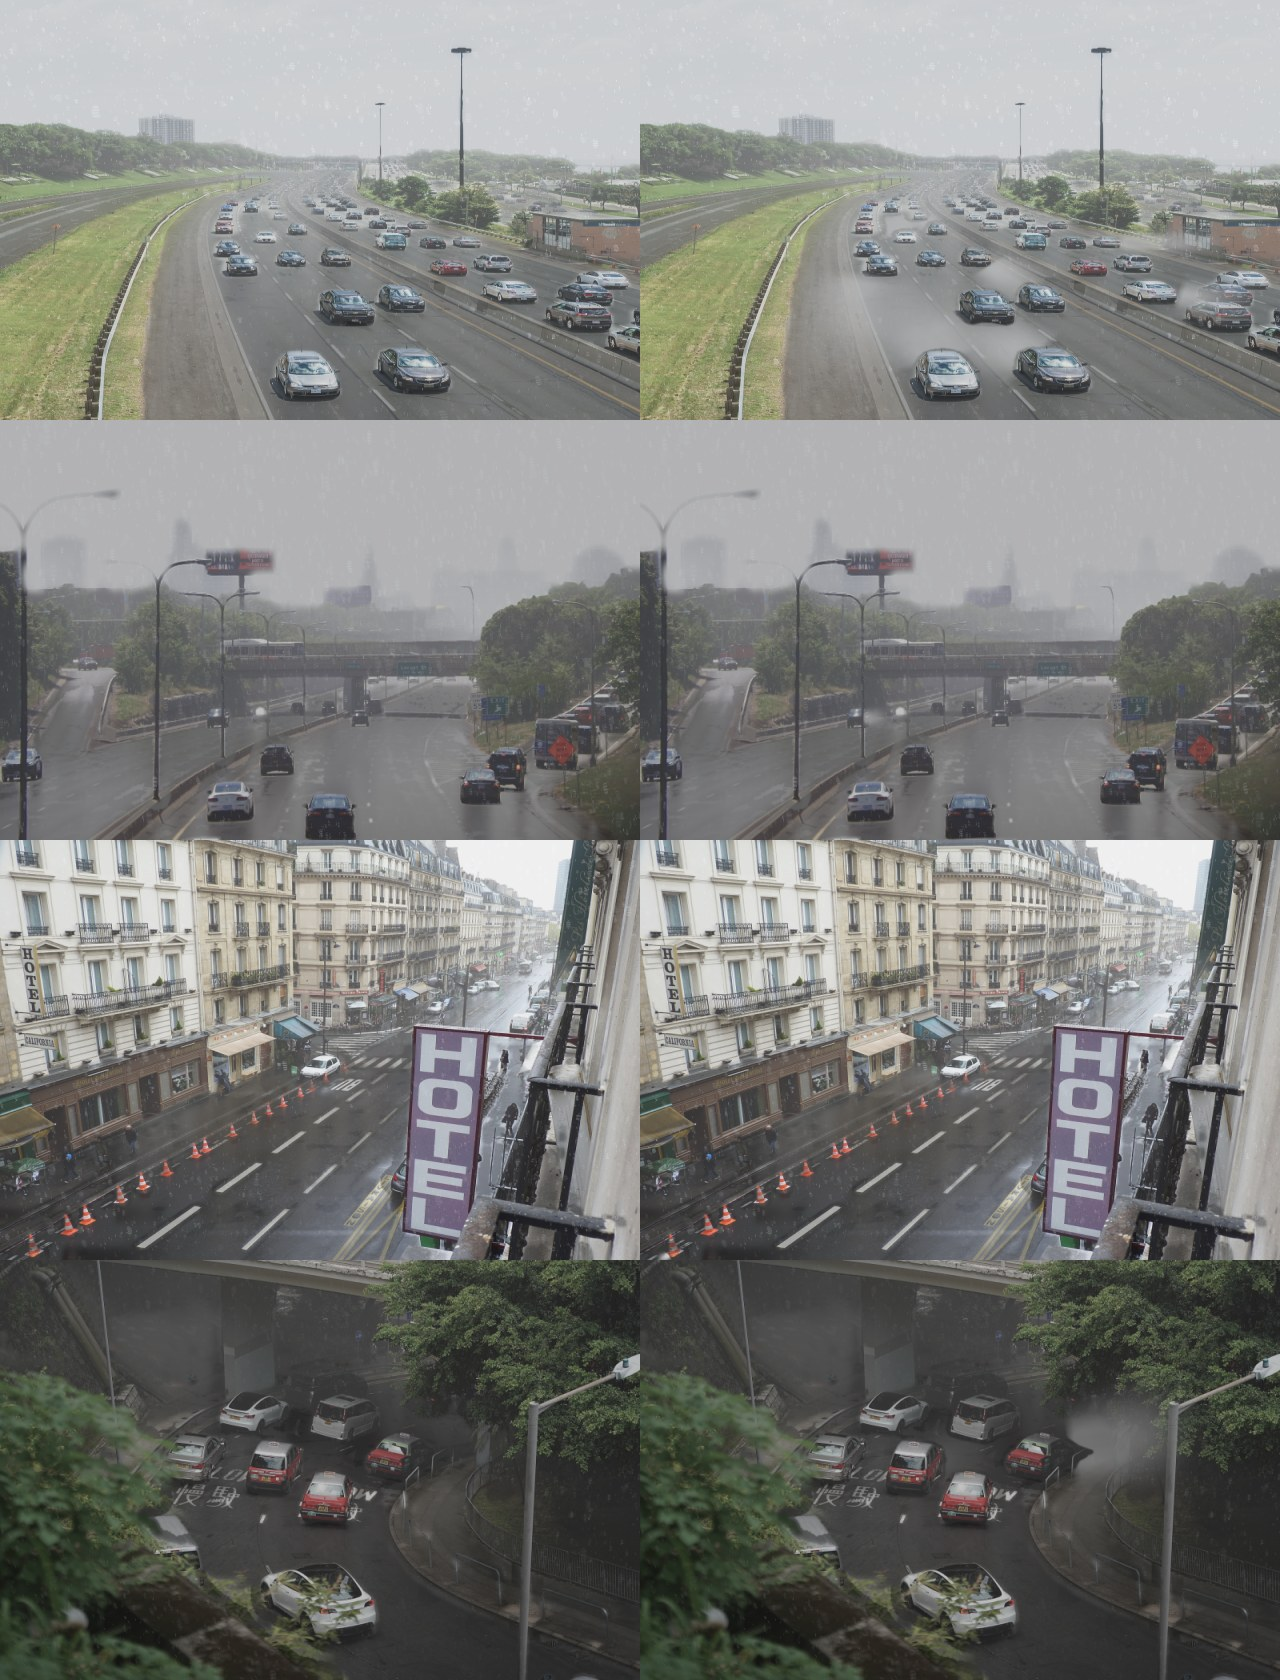
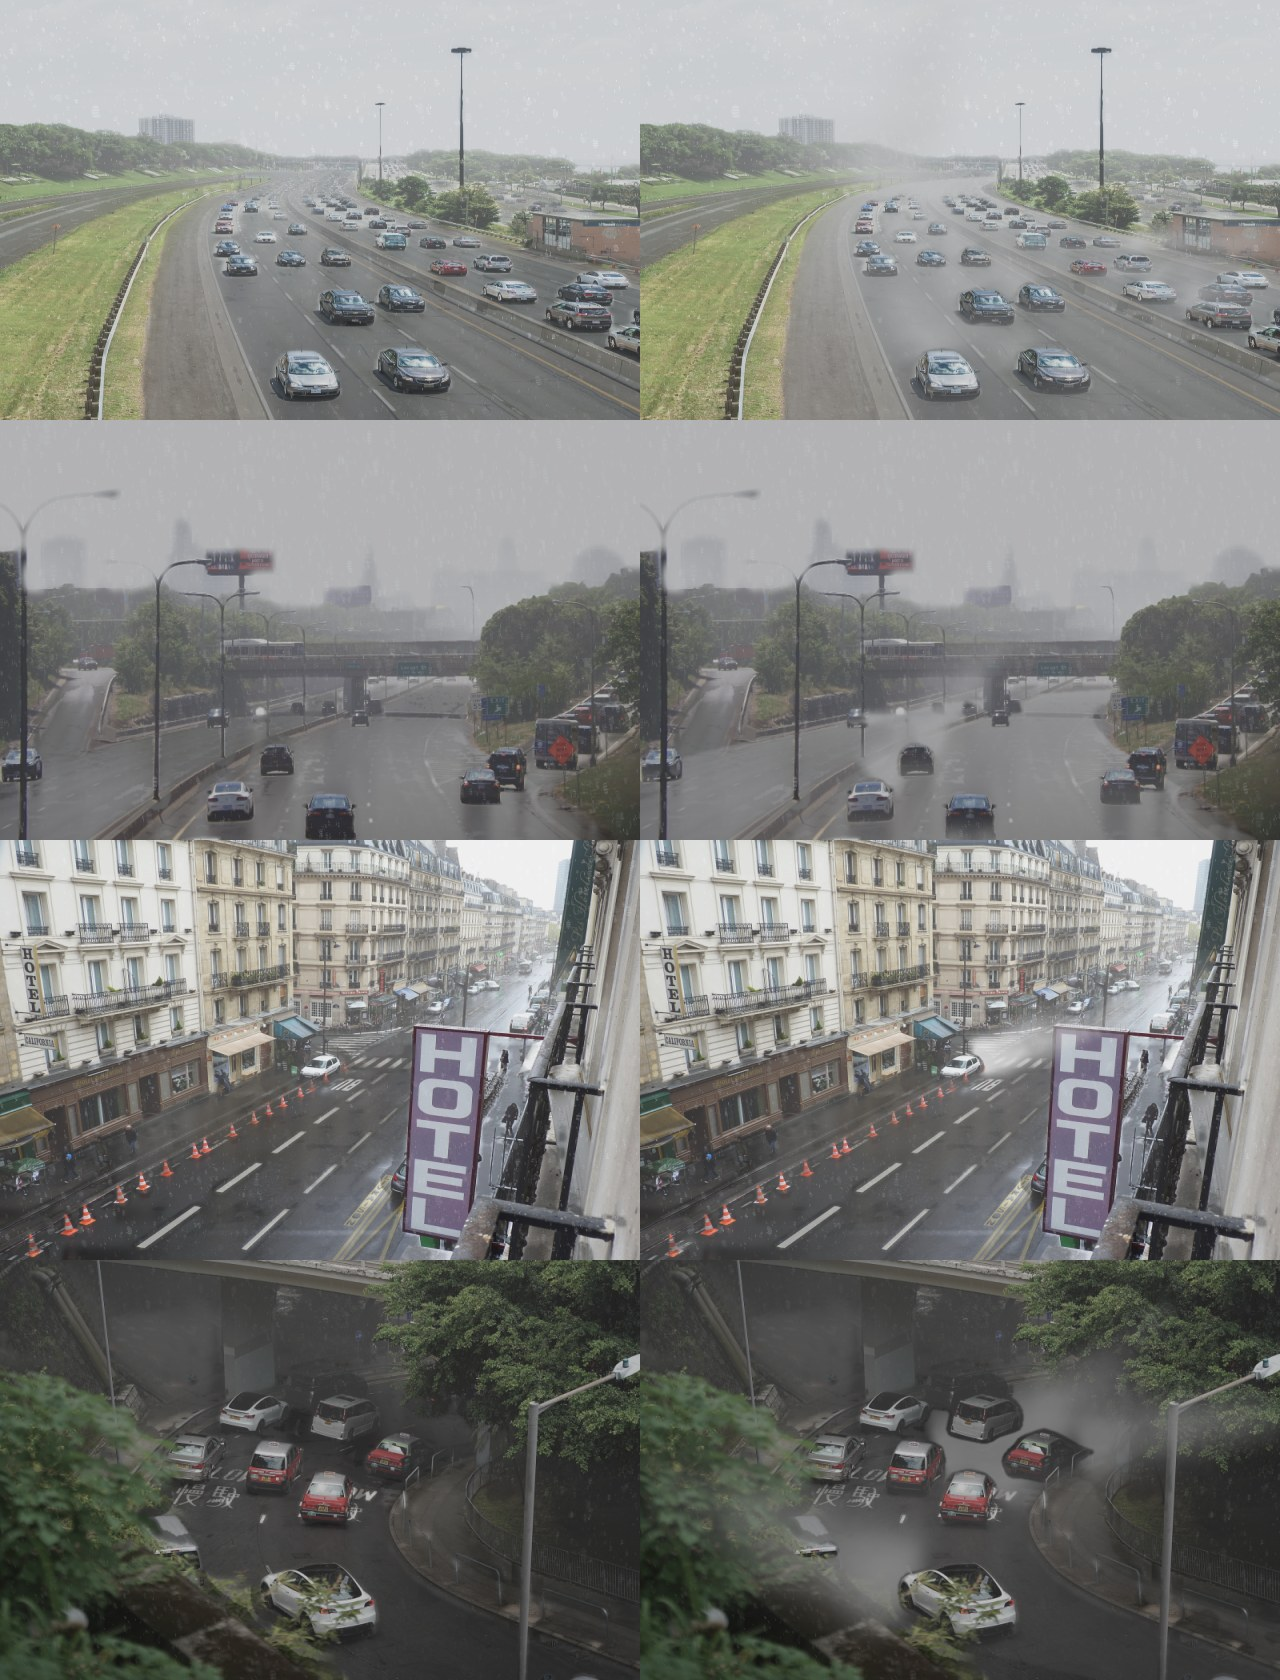
Road surface guide: what spray is made of, with its sources
The four mechanisms of splash and spray and the three things they amount
to in a picture, with the figures regenerated. Two figures quoted from
summaries are marked as not checked at source.

diff --git a/docs/road_surface.md b/docs/road_surface.md
@@ -128,37 +128,61 @@ wide (0.3) to lanes worn bare (1). Left, without; right, with:
 
 ## Spray
 
-Each vehicle on a road with a film of water trails a low cloud of mist that
-lies on the road behind it: densest at the wheels and no higher than they
-are, as wide as the vehicle, then a little wider and up to about its roof,
-thinning out over a length and a half.
+A tyre on a wet road throws water up four ways (Weir et al., 1978, as
+taken up by the FHWA's splash and spray work): a bow wave ahead of it and a
+side wave beside it, which are coarse drops on short ballistic paths; and
+tread pickup and capillary adhesion, which come off the tread as fine
+droplets and are carried away in the air the vehicle drags. So what is seen
+has three parts, and each is drawn:
 
-- **Where it lies is the road's direction at the vehicle**, from the model
-  above, turned to the vehicle's own outline where that is long and close
-  to it: a car changing lanes trails its spray along its own line.
-- **Which end is the tail** comes from each vehicle's own picture. Red
-  lamps are tail lamps: it is seen from behind and driving away. White
-  lamps at night are headlamps: it is coming on. A vehicle showing neither
-  goes the way of the nearest one across the road that does, since the two
-  sides of a road run opposite ways. With no lamp showing on a road, its
-  direction is drawn.
-- **How fast** each vehicle goes is drawn: each gets its own share of
-  spray, and more than a third get none.
-- **Some vehicles never get one**: a vehicle lying across the road, which
-  is crossing, turning or parked; and any vehicle on a scrap of road under
-  a twentieth of the frame, whose direction is a guess. Both used to
-  shoot a jet of mist out sideways.
-- The plume of a vehicle coming towards the camera is hidden by the
-  vehicle.
+- **Tufts at the wheels.** Coarse drops flung off the back of each tyre.
+  Drag stops them quickly: thrown at 36 m/s and 30°, a 200 µm drop is down
+  within about a metre and a half and never above about 0.6 m (von Bernuth,
+  Volk and Bringmann, 2021). Two low dense knots at the rear wheels of a
+  vehicle seen from behind.
+- **The wake.** The fine spray, carried along behind the vehicle: some
+  lengths long and longer the faster it goes (lidar studies of spray
+  report a cloud some twenty metres long behind a vehicle at motorway
+  speed; a figure met in a summary and not checked at source), as wide as
+  the vehicle and widening, as
+  tall as the vehicle a length back, thinning all the way, and turbulent,
+  so no two stretches of it are alike. It scales with the vehicle: a
+  lorry's is several cars' worth, and as tall as the lorry.
+- **The mist over the road.** What one vehicle throws up the next drives
+  through, and over a busy carriageway there is a layer of it a couple of
+  metres deep. A sight line runs through more of it the further off it
+  meets the road, so the nearest cars are clear and the far traffic is gone
+  from the wheels up, its roofs last. This, more than any one wake, is what
+  a motorway in rain looks like, and it is what the first version, a puff
+  behind each car, did not have at all.
+
+Where each wake lies, and which way:
+
+- **Along the road's direction at the vehicle**, from the model above,
+  turned to the vehicle's own outline where that is long and close to it.
+- **Behind the vehicle, which its own picture has to say.** A rear shows
+  red lenses, a pair of them at the corners of its near end: it is driving
+  away, and its wake is towards the camera, over its own wheels. A vehicle
+  large enough to show lenses and showing no red is seen from the front,
+  as is one with white lamps burning at night: its wake is behind it, up
+  the road. A red car says nothing. A vehicle that says nothing goes the
+  way of the nearest one across the road that does.
+- **One speed to a road.** How much is thrown up goes with the square of
+  the speed, and traffic on one carriageway moves at about one speed, drawn
+  per road, with a little either side for each vehicle.
+- **Some vehicles throw up nothing**: one lying across the road, which is
+  crossing, turning or parked; and any on a scrap of road under a
+  twentieth of the frame, whose direction is a guess.
 
 Left, a soaked road; right, the same with `spray_range=(0.6, 0.6)`:
 
 ![wet road and spray](assets/road_surface/wet_road_and_spray.jpg)
 
-It is off by default because of what one frame cannot say: a queue of
-standing traffic gets plumes, and without tail lamps a plume may trail the
-wrong way. It is a soft grey cloud and no more: there is no ballistic
-sheet of water off the tyres and no side spray.
+It is off by default because of what one frame cannot say: how fast the
+traffic is moving, so a standing queue is given the spray of a moving one;
+and, where no lamp or lens shows, which way it is going. Lamps are not
+lit: real traffic in rain drives with its lights on, and their glow in the
+mist and their streaks down the road are most of what is still missing.
 
 ## Limits
 
@@ -191,11 +215,24 @@ sheet of water off the tyres and no side spray.
 
 ## References
 
+- Weir, D. H., Strange, J. F., Heffley, R. K. (1978). Reduction of Adverse
+  Aerodynamic Effects of Large Trucks. Federal Highway Administration. (The
+  four mechanisms of splash and spray. Known here only through the next
+  entry, which summarises them; not read at source.)
+- Federal Highway Administration (2015). Assessing Pavement Surface Splash
+  and Spray Impact on Road Users. TechBrief FHWA-HRT-15-062.
+  [fhwa.dot.gov](https://www.fhwa.dot.gov/publications/research/infrastructure/pavements/ltpp/15062/index.cfm)
+- von Bernuth, A., Volk, G., Bringmann, O. (2021). Augmenting Image Data
+  Sets With Water Spray Caused by Vehicles on Wet Roads. IEEE Intelligent
+  Transportation Systems Conference (ITSC).
+  [uni-tuebingen.de](https://www.embedded.uni-tuebingen.de/assets/publications/vonBernuth-Volk-Bringmann_Spray.pdf)
+  (droplet size, and how far a drop thrown from a wheel travels)
+- Linnhoff, C., et al. (2022). Simulating Road Spray Effects in Automotive
+  Lidar Sensor Models. [arXiv:2212.08558](https://arxiv.org/abs/2212.08558)
+  (spray as a plume behind the vehicle, in a sensor model)
 - Hartley, R., Zisserman, A. (2004). Multiple View Geometry in Computer
   Vision, 2nd ed. Cambridge University Press.
   [doi:10.1017/CBO9780511811685](https://doi.org/10.1017/CBO9780511811685)
-  (lines through a vanishing point; the cross-ratio that keeps position
-  across a road constant along a lane line)
 - Lekner, J., Dorf, M. C. (1988). Why some things are darker when wet.
   Applied Optics 27(7), 1278–1280.
   [doi:10.1364/AO.27.001278](https://doi.org/10.1364/AO.27.001278)

diff --git a/docs/transforms/RandomRain.md b/docs/transforms/RandomRain.md
@@ -156,7 +156,7 @@ See [scene understanding](../scene_understanding.md).
 | `overcast_range` | `(0.7, 1.0)` | how much of the light that goes with this much rain the frame is given, drawn per call. Precipitation falls from cloud, so by default the scene is relit towards overcast in step with the rate: contrast and saturation fall and any sky in view turns to cloud. 1 is the full change for the rate, 0 leaves the light as photographed — right for frames that already are overcast. It cannot remove shadows the photograph has; it softens a sunny scene and does not convert it. See `utils/overcast.py`. |
 | `lamp_glint_range` | `(0.0, 0.0)` | at night, how many times full scale the lamps in the frame are taken to be when they light the rain, drawn per call. Zero — the default — leaves every streak lit by the frame's average light, which is right by day, when that light is the sky. At night it is wrong: a drop near a lamp's line of sight throws the lamp's light at the lens and is the brightest thing near it, and a drop against the dark between lamps is invisible, so real night rain is seen as a swarm of bright flecks round each lamp and nowhere else. A positive value lights each streak by the lamps near it in the picture, in their colour, and lets a soaked road reflect them: at this strength close under each lamp, and many times it in the long streak the lamp lays down the road towards the camera, which is the lamp spread over hundreds of times its own area and still the brightest thing on a wet street. A clipped lamp's true brightness is not in the frame, hence a range and not a measurement. Set it for night frames only; the shipped pipelines do. |
 | `puddle_coverage_range` | `(0.0, 0.45)` | share of soaked ground under standing water, drawn per call. Water does not lie evenly: it collects in ruts and hollows, and those are smooth where the film on the rest of the road is as rough as the road. A puddle is a clean mirror of what is above it, sky mostly, and by day the brightest thing on a wet road; between puddles the road is dark and glossy. Scaled by how wet the ground is, so a damp road has none. |
-| `spray_range` | `(0.0, 0.0)` | how much spray the vehicles on a wet road throw up, drawn per call. 0, the default, is none. Above it, each vehicle on a road with a film of water trails a plume of mist: at 0.3 a haze round its wheels, at 1 a cloud a couple of lengths long that hides the lower half of whatever follows. It needs scene labels on the provider, for the vehicles and the road they are on, and does nothing without. Off by default because of what a single frame cannot say: which vehicles are moving, and which way. Each plume lies along its own vehicle's heading, read off its outline. Which end is the tail is read off tail lamps where they show, and otherwise each road's direction of travel is drawn; each vehicle is given its own share of spray or none. A parked car may get a plume, and a plume may trail the wrong way. See `vehicle_spray`. |
+| `spray_range` | `(0.0, 0.0)` | how much spray the traffic on a wet road throws up, drawn per call. 0, the default, is none. Above it, a road with a film of water and vehicles on it gets the three things spray is made of: low dense tufts at the rear wheels; a long, turbulent wake behind each vehicle, bigger behind a bigger one; and a mist over the whole carriageway that thickens with distance, so that far traffic is lost from the wheels up. At 0.3 it is a haze, at 1 a motorway in a downpour. It needs scene labels on the provider, for the vehicles and the road they are on, and does nothing without. Off by default because of what a single frame cannot say: how fast the traffic is moving, and, where no lamp or lens shows, which way. See `vehicle_spray` and `road_mist`. |
 | `p` | `0.5` | probability that the transform is applied |
 
 ## Samples
